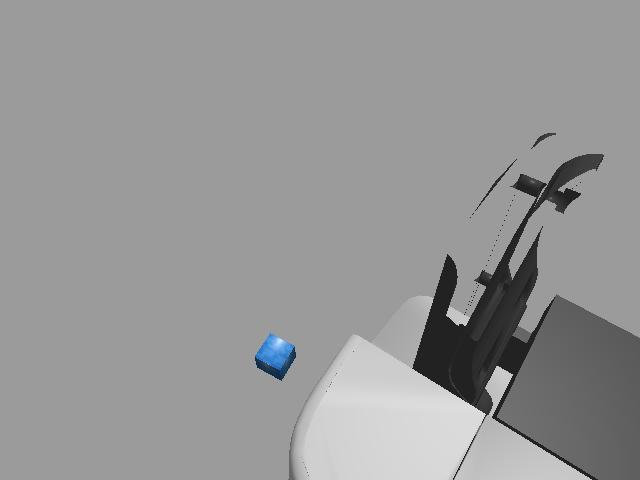
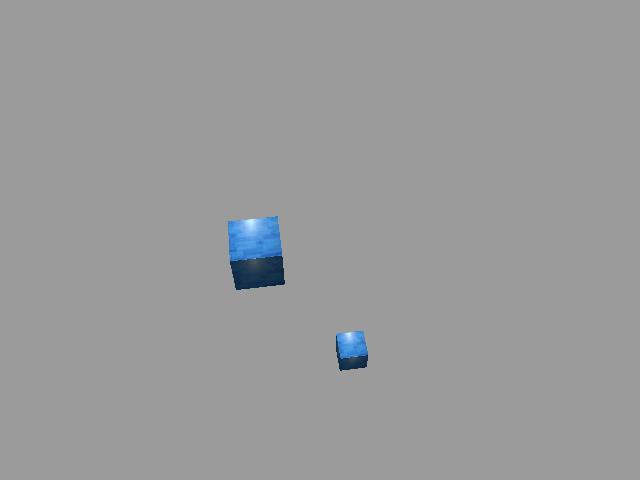
reseting environment

diff --git a/scripts/environment_1.py b/scripts/environment_1.py
@@ -34,30 +34,28 @@ class Environment1:
 
     def handle_reset(self, _):
         utils.move_to_start_pose()
-
-        # Choose random, reachable location of the cube
-        r = random.uniform(config.MIN_ROBOT_DISTANCE, config.MAX_ROBOT_DISTANCE)
-        theta = random.uniform(config.MIN_ROBOT_ANGLE, config.MAX_ROBOT_ANGLE)
-        x = r * m.cos(theta)
-        y = r * m.sin(theta)
-        
-        utils.set_model_position('cube', x, y)
-
-        h = config.CAMERA_HEIGHT
-        tilt = m.atan(r / h) - 1.57
-
-        utils.move_head(theta, tilt)
-
+        self.distribute_objects()
+        rospy.sleep(2)
         goal = utils.get_image()
-
-        utils.move_head_to_start_pose()
-
+        self.distribute_objects()
+        rospy.sleep(2)
         state = utils.get_image()
+
+        return (goal, state)
 
 
     def handle_action(self):
         pass
 
+    def distribute_objects(self):
+        for i in range(1, 3):
+            # Choose random, reachable location of the cube
+            r = random.uniform(config.MIN_ROBOT_DISTANCE, config.MAX_ROBOT_DISTANCE)
+            theta = random.uniform(config.MIN_ROBOT_ANGLE, config.MAX_ROBOT_ANGLE)
+            x = r * m.cos(theta)
+            y = r * m.sin(theta)
+            
+            utils.set_model_position('cube' + str(i), x, y)
 
 def run():
     env = Environment1()

diff --git a/scripts/config.py b/scripts/config.py
@@ -11,8 +11,8 @@ CUBE_Z = -0.001001
 CAMERA_HEIGHT = 0.8
 MIN_ROBOT_DISTANCE = 0.5
 MAX_ROBOT_DISTANCE = 0.9
-MIN_ROBOT_ANGLE = -m.pi / 2
-MAX_ROBOT_ANGLE = m.pi / 2
+MIN_ROBOT_ANGLE = -0.30
+MAX_ROBOT_ANGLE = 0.30
 START_ARM_JOINT_NAMES = [
     'arm_flex_joint', 
     'arm_lift_joint', 
@@ -23,11 +23,11 @@ START_ARM_JOINT_NAMES = [
 START_ARM_JOINT_ANGLES = [
     -0.023208623448968346, 
     -2.497211361823794e-06, 
-    -1.57, 
+    1.57, 
     -1.57, 
     -0.0008994942881326295
 ]
 START_GRIPPR_JOINT_ANGLE = 0
 START_GRIPPR_JOINT_EFFORT = 0.1
 START_HEAD_PAN = 0
-START_HEAD_TILT = -0.7
+START_HEAD_TILT = -0.9

diff --git a/scripts/utils.py b/scripts/utils.py
@@ -100,8 +100,8 @@ def move_head(pan, tilt):
 
 def get_image():
     msg = rospy.wait_for_message('/hsrb/head_rgbd_sensor/rgb/image_rect_color', sensor_msgs.msg.Image)
-    # img = Image.frombytes('RGB', (msg.width, msg.height), msg.data)
-    # img.save('camera.jpg')
+    img = Image.frombytes('RGB', (msg.width, msg.height), msg.data)
+    img.save('camera.jpg')
 
     return msg
 
